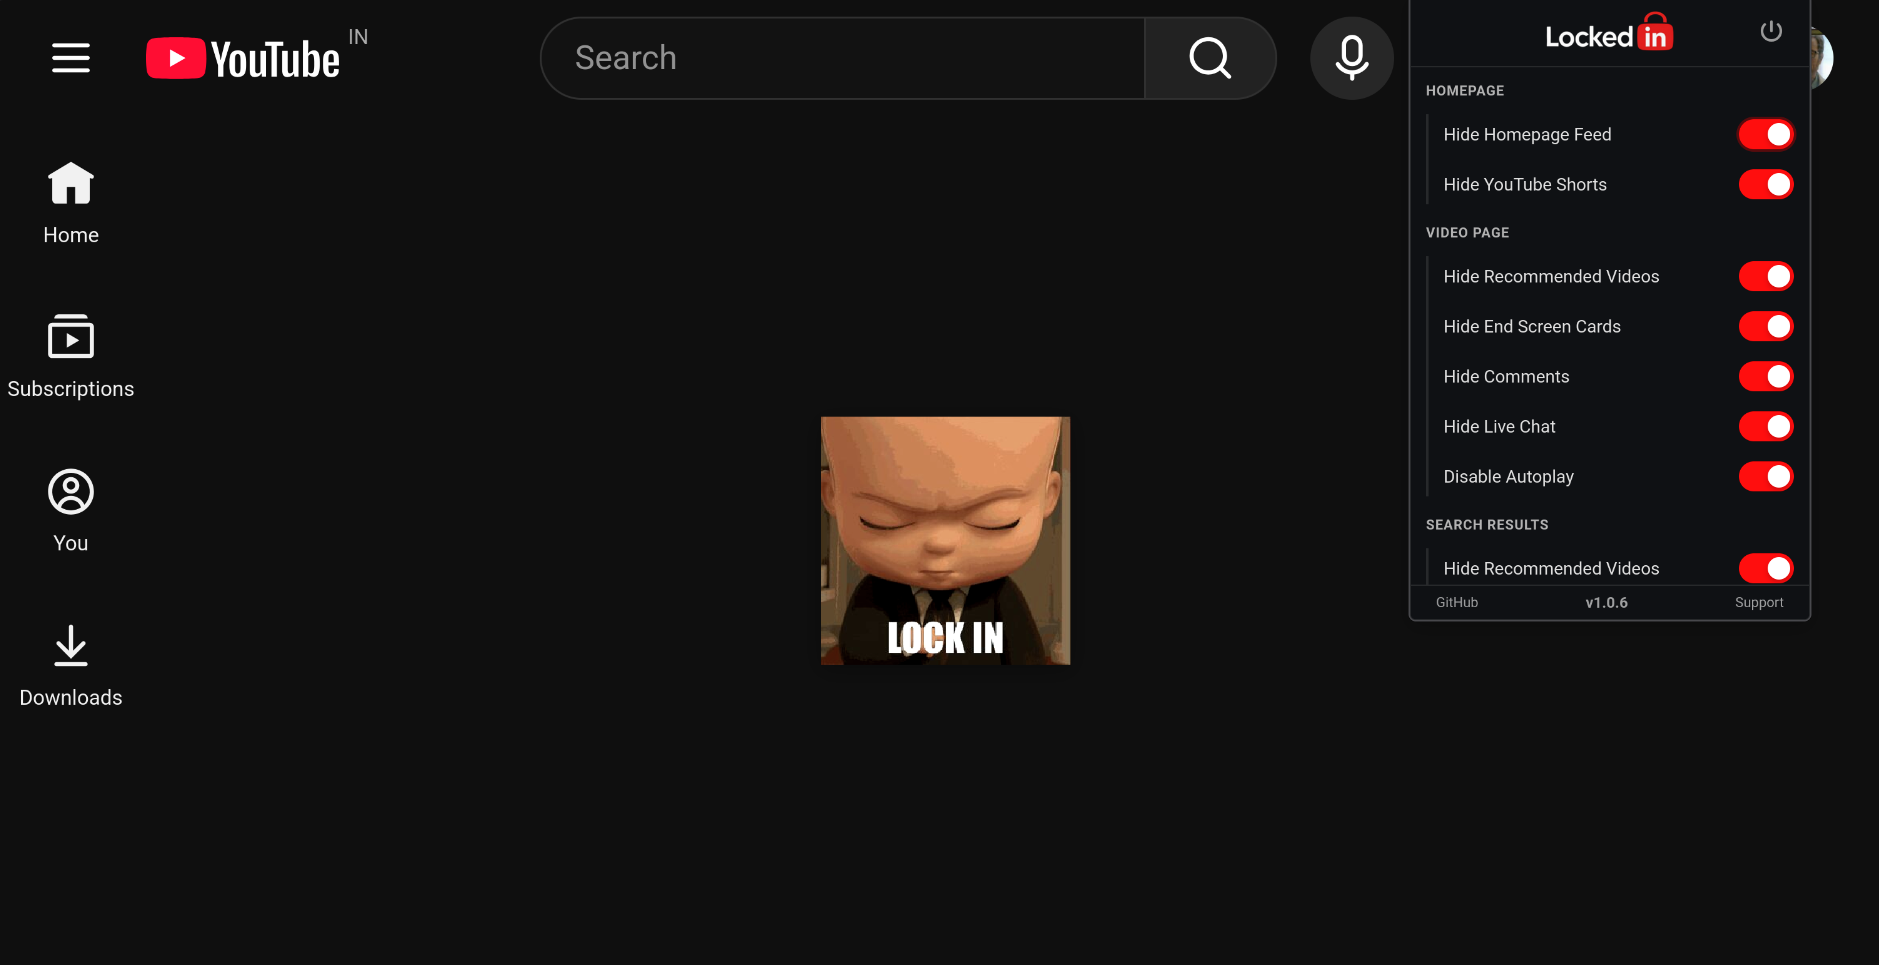
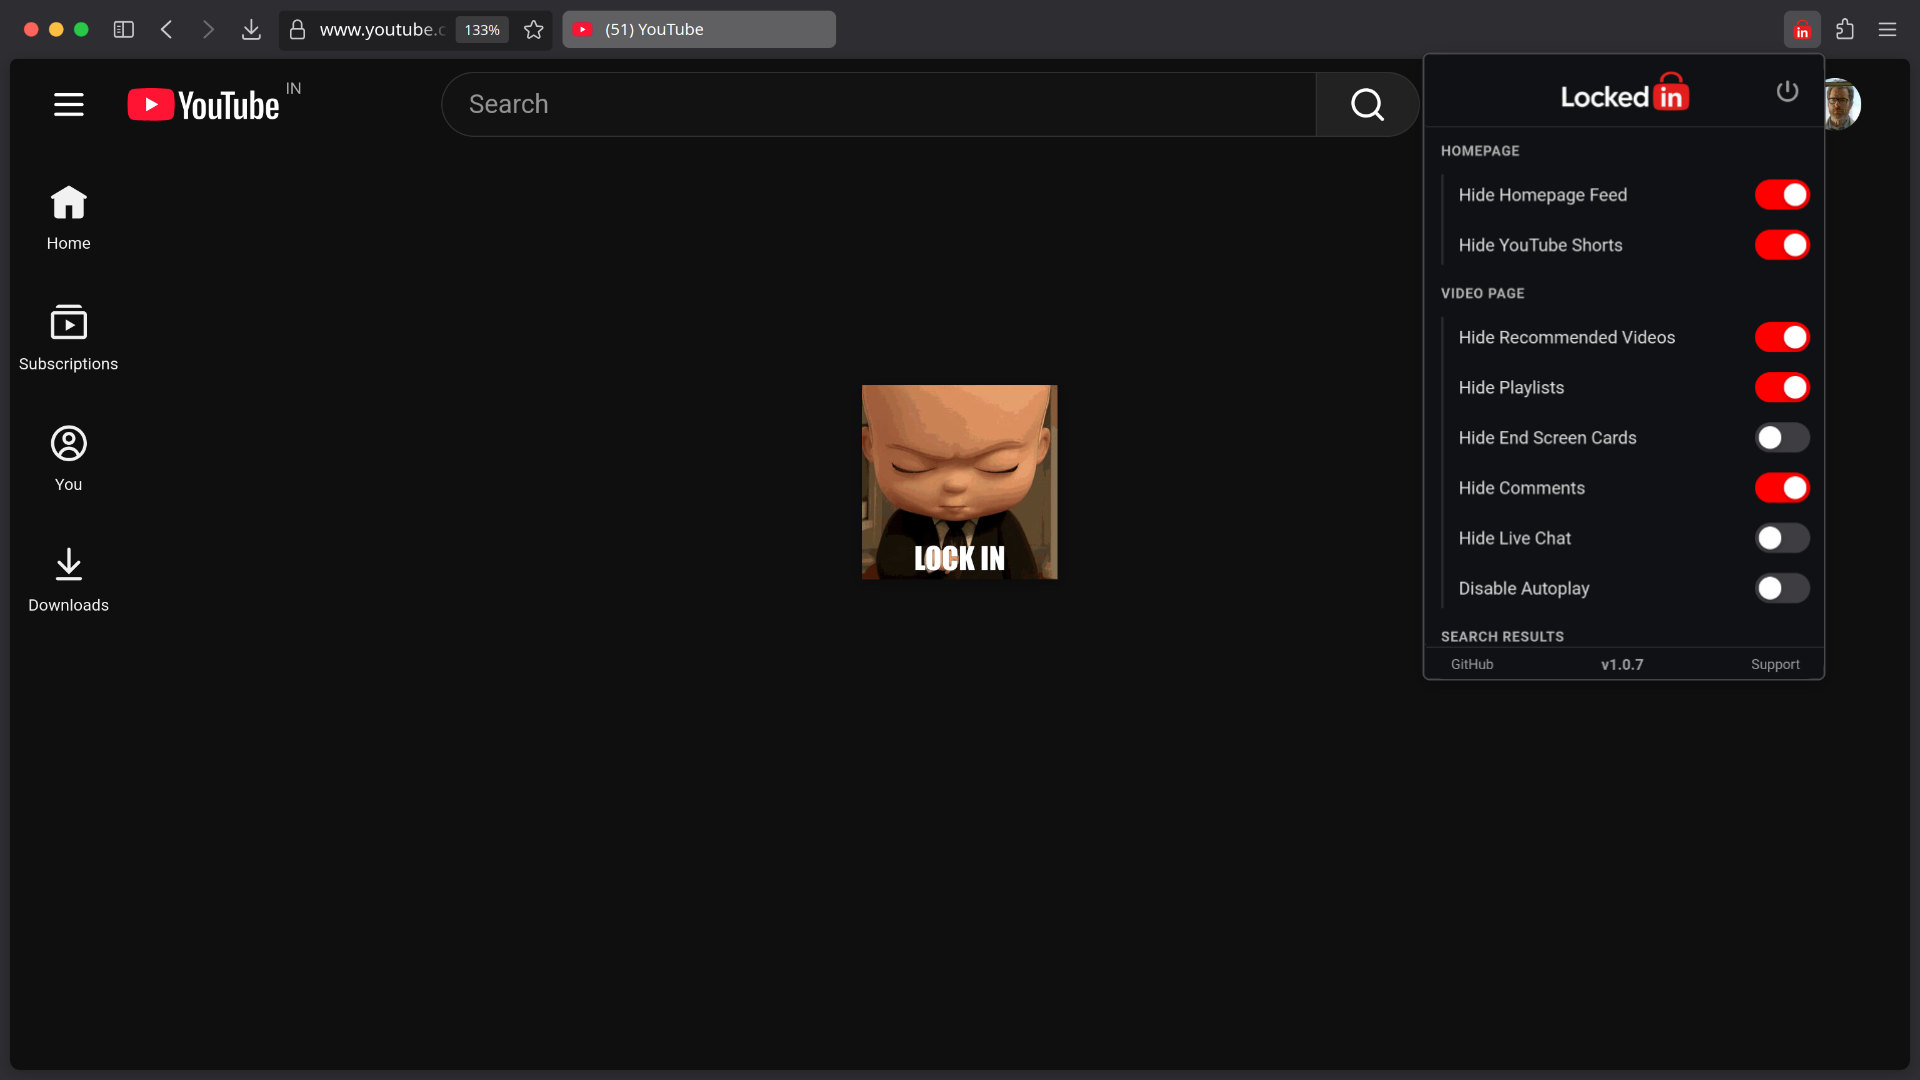
version 1.0.7

Changed region(s): [[0.0, 0.0, 1.0, 1.0], [0.4321, 0.342, 0.5865, 0.6839], [0.2469, 0.0933, 0.2778, 0.1244]]

diff --git a/popup/popup.css b/popup/popup.css
@@ -5,16 +5,16 @@
 }
 
 body {
-  width: 280px;
-  height: 392px;
+  width: 320px;
+  height: 500px;
   font-family: -apple-system, BlinkMacSystemFont, "Segoe UI", Roboto, sans-serif;
   background: transparent;
   overflow: hidden;
 }
 
 .popup-container {
-  width: 280px;
-  height: 392px;
+  width: 320px;
+  height: 500px;
   background: hsla(220, 20%, 5%, 0.98);
   backdrop-filter: blur(20px) saturate(180%);
   -webkit-backdrop-filter: blur(20px) saturate(180%);
@@ -29,15 +29,15 @@ body {
   display: flex;
   align-items: center;
   justify-content: center;
-  padding: 8px 12px;
+  padding: 12px 16px;
   border-bottom: 1px solid hsla(0, 0%, 100%, 0.1);
   flex-shrink: 0;
   position: relative;
 }
 
 .header-logo {
-  max-width: 150px;
-  max-height: 28px;
+  max-width: 180px;
+  max-height: 32px;
   height: auto;
   width: auto;
   transition: opacity 0.2s ease;
@@ -50,13 +50,13 @@ body {
 .power-button {
   background: transparent;
   border: none;
-  padding: 2px;
+  padding: 4px;
   cursor: pointer;
   display: flex;
   align-items: center;
   justify-content: center;
   position: absolute;
-  right: 12px;
+  right: 16px;
   top: 50%;
   transform: translateY(-50%);
 }
@@ -70,8 +70,8 @@ body {
 }
 
 .power-icon {
-  width: 18px;
-  height: 18px;
+  width: 20px;
+  height: 20px;
   color: hsl(0, 0%, 60%);
   transition: color 0.15s ease;
 }
@@ -81,7 +81,7 @@ body {
 }
 
 .settings-scroll-area {
-  height: 304px;
+  height: 400px;
   overflow-y: auto;
   overflow-x: hidden;
   flex: 1;
@@ -150,34 +150,34 @@ body {
 }
 
 .settings-container {
-  padding: 10px;
+  padding: 12px;
   display: flex;
   flex-direction: column;
-  gap: 12px;
+  gap: 16px;
 }
 
 .settings-group {
   display: flex;
   flex-direction: column;
-  gap: 6px;
+  gap: 8px;
 }
 
 .group-title {
-  font-size: 10px;
+  font-size: 11px;
   font-weight: 600;
   text-transform: uppercase;
   letter-spacing: 0.05em;
   color: hsl(0, 0%, 70%);
-  margin-bottom: 2px;
+  margin-bottom: 4px;
 }
 
 .settings-list {
   display: flex;
   flex-direction: column;
-  gap: 6px;
+  gap: 8px;
   position: relative;
-  padding-left: 8px;
-  border-left: 1px solid hsla(0, 0%, 100%, 0.12);
+  padding-left: 10px;
+  border-left: 2px solid hsla(0, 0%, 100%, 0.1);
   margin-left: 0;
 }
 
@@ -185,7 +185,7 @@ body {
   display: flex;
   align-items: center;
   justify-content: space-between;
-  padding: 2px 0;
+  padding: 4px 0;
   padding-left: 2px;
 }
 
@@ -205,7 +205,7 @@ body {
 }
 
 .setting-label {
-  font-size: 13px;
+  font-size: 14px;
   font-weight: 400;
   color: hsl(0, 0%, 88%);
   transition: color 0.2s ease;
@@ -214,8 +214,8 @@ body {
 .toggle-switch {
   position: relative;
   display: inline-block;
-  width: 36px;
-  height: 20px;
+  width: 44px;
+  height: 24px;
   cursor: pointer;
   flex-shrink: 0;
 }
@@ -233,17 +233,17 @@ body {
   right: 0;
   bottom: 0;
   background-color: hsl(240, 4%, 25%);
-  border-radius: 10px;
+  border-radius: 12px;
   transition: all 0.15s cubic-bezier(0.4, 0, 0.2, 1);
 }
 
 .toggle-slider::before {
   content: "";
   position: absolute;
-  height: 16px;
-  width: 16px;
-  left: 2px;
-  bottom: 2px;
+  height: 18px;
+  width: 18px;
+  left: 3px;
+  bottom: 3px;
   background-color: white;
   border-radius: 50%;
   box-shadow: 0 2px 4px rgba(0, 0, 0, 0.2);
@@ -255,7 +255,7 @@ body {
 }
 
 .toggle-switch input:checked + .toggle-slider::before {
-  transform: translateX(16px);
+  transform: translateX(20px);
 }
 
 .toggle-switch input:focus + .toggle-slider {
@@ -268,26 +268,26 @@ body {
 
 .popup-footer {
   flex-shrink: 0;
-  padding: 0 0 4px 0;
+  padding: 0 0 6px 0;
 }
 
 .footer-divider {
   border: none;
   border-top: 1px solid hsla(0, 0%, 100%, 0.1);
-  margin: 0 0 4px 0;
+  margin: 0 0 6px 0;
 }
 
 .footer-content {
   display: flex;
   align-items: center;
   justify-content: space-between;
-  padding: 0 14px;
+  padding: 0 20px;
 }
 
 .footer-link {
   color: hsla(0, 0%, 100%, 0.6);
   text-decoration: none;
-  font-size: 10px;
+  font-size: 11px;
   transition: color 0.2s ease;
   cursor: pointer;
 }
@@ -299,7 +299,7 @@ body {
 .version {
   flex: 1;
   text-align: center;
-  font-size: 11px;
+  font-size: 12px;
   color: hsla(0, 0%, 100%, 0.6);
   font-weight: 600;
   padding: 0;

diff --git a/docs/about.html b/docs/about.html
@@ -92,8 +92,8 @@
                                 <polyline points="20 6 9 17 4 12"></polyline>
                             </svg>
                             <div>
-                                <strong>Clean Sidebar & Search</strong>
-                                <p>Remove trending distractions, explore sections, and clean up search results</p>
+                                <strong>Smart Sidebar Control</strong>
+                                <p>Intelligently manage video sidebar content - hide recommendations, playlists for a better focused environment</p>
                             </div>
                         </li>
                         <li>
@@ -101,7 +101,7 @@
                                 <polyline points="20 6 9 17 4 12"></polyline>
                             </svg>
                             <div>
-                                <strong>11+ Customizable Toggles</strong>
+                                <strong>12+ Customizable Toggles</strong>
                                 <p>Fine-tune your YouTube experience with granular control over every distraction</p>
                             </div>
                         </li>

diff --git a/docs/features.html b/docs/features.html
@@ -70,8 +70,10 @@
             <div class="feature-content">
                 <div class="feature-text">
                     <h2>Video Page Control</h2>
-                    <p>Watch what you came for, nothing more. When you're on a video page, LockedIn removes all the elements designed to keep you clicking. Focus on the content you chose, then move on with your day.</p>
+                    <p>Watch what you came for, nothing more. When you're on a video page, LockedIn gives you smart control over sidebar content. Keep your playlists visible while hiding distracting recommendations. Focus on the content you chose, then move on with your day.</p>
                     <ul class="feature-list">
+                        <li>✓ Smart Sidebar Control - Hide recommendations while keeping playlists</li>
+                        <li>✓ Playlist Toggle - Show/hide playlists separately</li>
                         <li>✓ Hide Live Chat - Focus on the content</li>
                         <li>✓ Hide End Cards - No autoplay suggestions</li>
                         <li>✓ Hide Comments - Avoid rabbit holes</li>

diff --git a/popup/popup.html b/popup/popup.html
@@ -2,7 +2,7 @@
 <html lang="en">
 <head>
   <meta charset="UTF-8">
-  <meta name="viewport" content="width=280, height=392">
+  <meta name="viewport" content="width=320, height=500">
   <title>LockedIn</title>
   <link rel="stylesheet" href="popup.css">
 </head>

diff --git a/CHANGELOG.md b/CHANGELOG.md
@@ -1,0 +1,27 @@
+# Changelog
+
+All notable changes to the LockedIn extension will be documented in this file.
+
+## [1.0.7] - 2025-11-05
+### Added
+- New toggle to hide/show playlists in the video sidebar
+- More granular control over recommended videos
+
+### Changed
+- Improved recommended videos toggle logic - now only hides recommended videos while keeping playlists visible
+- Enhanced UI scaling for better visibility
+- Optimized popup interface dimensions
+
+### Fixed
+- Fixed video sidebar behavior to maintain playlist visibility when hiding recommended videos
+
+## [1.0.6] - Previous Release
+### Added
+- New organized UI with 4 logical groups
+- Power button to quickly toggle entire extension
+- Separate controls for homepage & search Shorts
+
+### Changed
+- More compact and organized popup interface
+- Enhanced UI elements and toggles
+- Improved user feedback and visual indicators

diff --git a/DEPLOY_NOW.md b/DEPLOY_NOW.md
@@ -1,13 +1,13 @@
-# 🚀 READY TO DEPLOY - Version 1.0.6
+# 🚀 READY TO DEPLOY - Version 1.0.7
 
 ## ✅ All Files Ready
 
 ### Extension Package
-📦 **lockedin-1.0.6.zip** (192 KB)
+📦 **lockedin-1.0.7.zip** (192 KB)
 - Upload this to Mozilla Add-ons
 
 ### Source Code (if requested)
-📄 **lockedin-source-1.0.6.zip** (1.4 MB)
+📄 **lockedin-source-1.0.7.zip** (1.4 MB)
 - Provide only if Mozilla reviewers request it
 
 ### Documentation

diff --git a/BUILDING.md b/BUILDING.md
@@ -27,7 +27,7 @@ chmod +x build.sh
 ### Firefox:
 - Navigate to `about:debugging#/runtime/this-firefox`
 - Click "Load Temporary Add-on"
-- Select the generated `lockedin-1.0.6.zip` file
+- Select the generated `lockedin-1.0.7.zip` file
 
 ### Edge/Chrome:
 - Go to `edge://extensions/` (Edge) or `chrome://extensions/` (Chrome)
